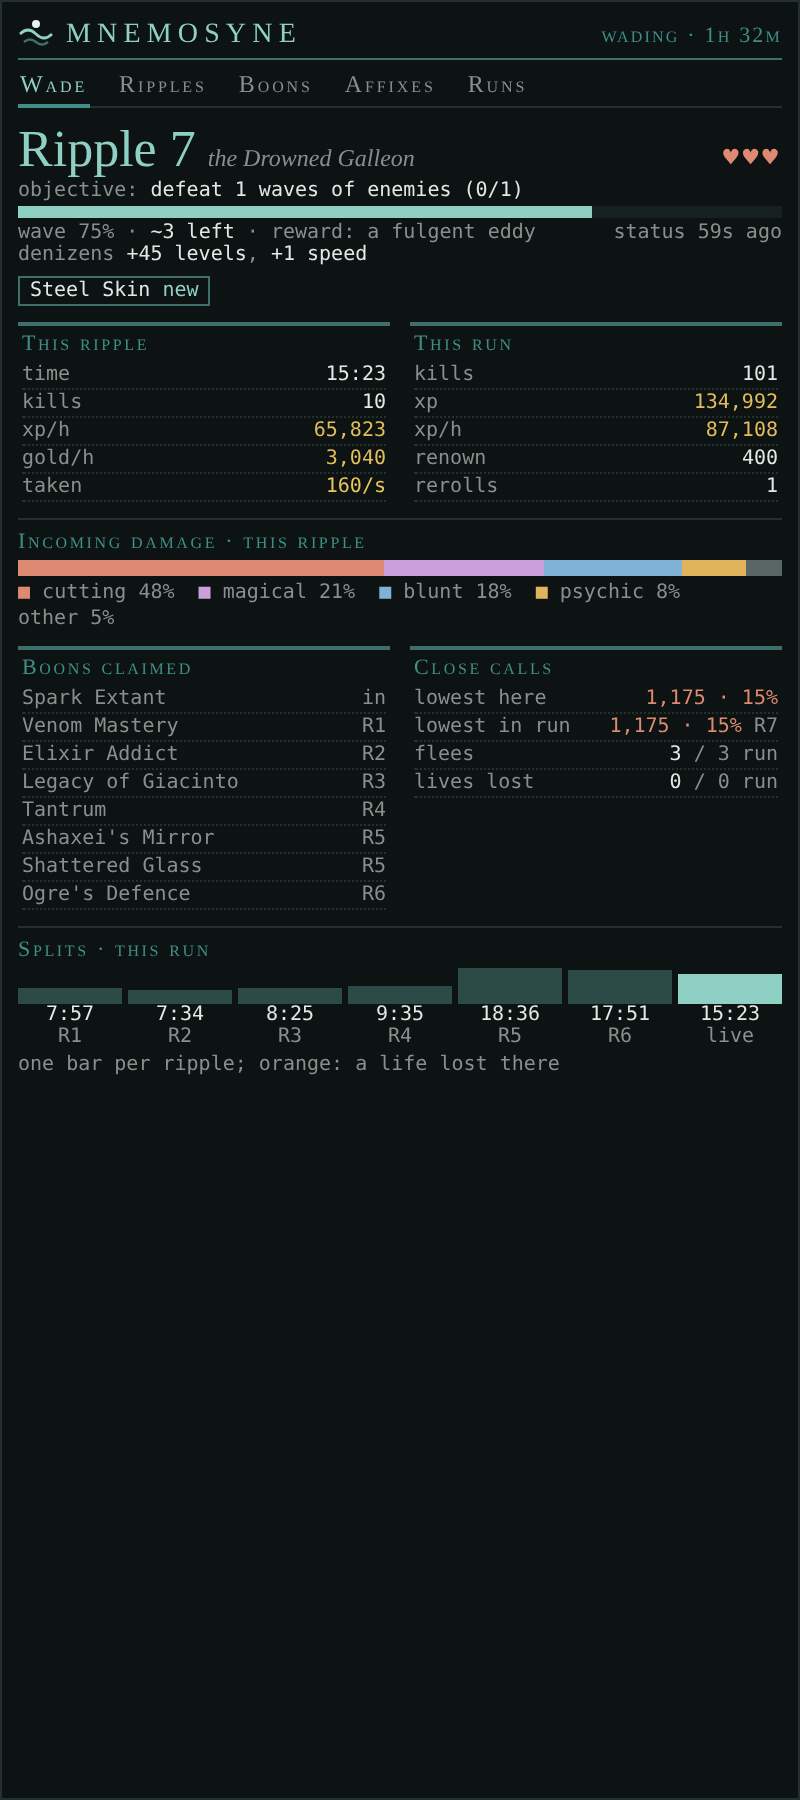
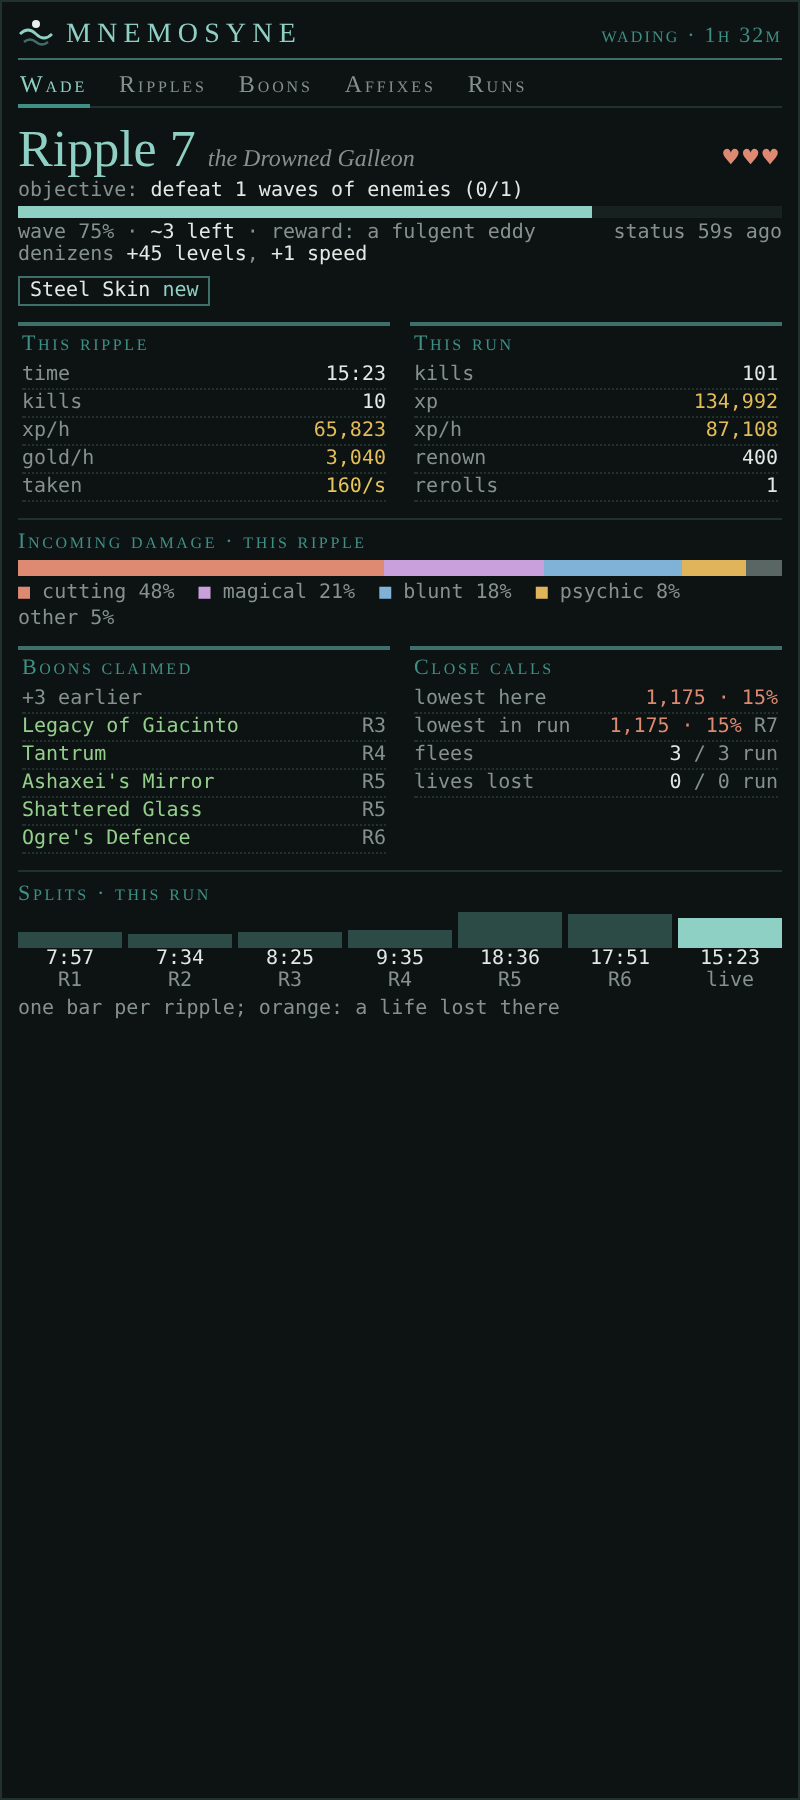
ripples: Boons claimed shows the last five, the rest as '+N earlier'
Hover the line for the earlier ones (Ricardo: the list grew like a sausage).

Claude-Session: https://claude.ai/code/session_01Dwg4aB4gejeTLEjHmxvLWX

Changed region(s): [[0.0, 0.3733, 1.0, 0.5911]]

diff --git a/packages/ripples/ripples_render.js b/packages/ripples/ripples_render.js
@@ -152,10 +152,14 @@ if (R.view === "wade") {
     html += '<div style="display:flex;flex-wrap:wrap;gap:10px;margin-top:8px;">' + box(caps(cur ? "This ripple" : "Last ripple") + rb) + box(caps("This run") + rbx) + '</div>';
     if (shown) html += section("Incoming damage &middot; " + (cur ? "this" : "last") + " ripple", dmgBar(shown));
     // Boons claimed, beside the close calls.
-    var held = "";
-    for (var si = 0; si < run.screens.length; si++) {
-      var sc = run.screens[si];
-      if (!sc.took) continue;
+    // The last five claimed, newest last; the rest folded into one line.
+    var held = "", claimedAll = [];
+    for (var sj = 0; sj < run.screens.length; sj++) if (run.screens[sj].took) claimedAll.push(run.screens[sj]);
+    var earlier = claimedAll.slice(0, Math.max(0, claimedAll.length - 5));
+    if (earlier.length) held += row('<span style="color:' + MUTED + ';">+' + earlier.length + ' earlier</span>', "", MUTED, earlier.map(function (x) { return x.took; }).join(", "));
+    var shownClaims = claimedAll.slice(-5);
+    for (var si = 0; si < shownClaims.length; si++) {
+      var sc = shownClaims[si];
       var bd = R.codex.boons[sc.took];
       var ech = run.echo && run.echo[sc.took] > 1 ? ' <span style="color:' + MUTED + ';">&times;' + run.echo[sc.took] + '</span>' : '';
       held += row('<span style="color:' + ((bd && RAR[bd.r]) || TXT) + ';">' + esc(sc.took === "?" ? "? (" + sc.opts.length + " offered)" : sc.took) + '</span>' + ech, sc.after ? "R" + sc.after : "in", MUTED, bd && bd.d ? bd.d : (sc.took === "?" ? "offered: " + sc.opts.join(", ") : ""));
